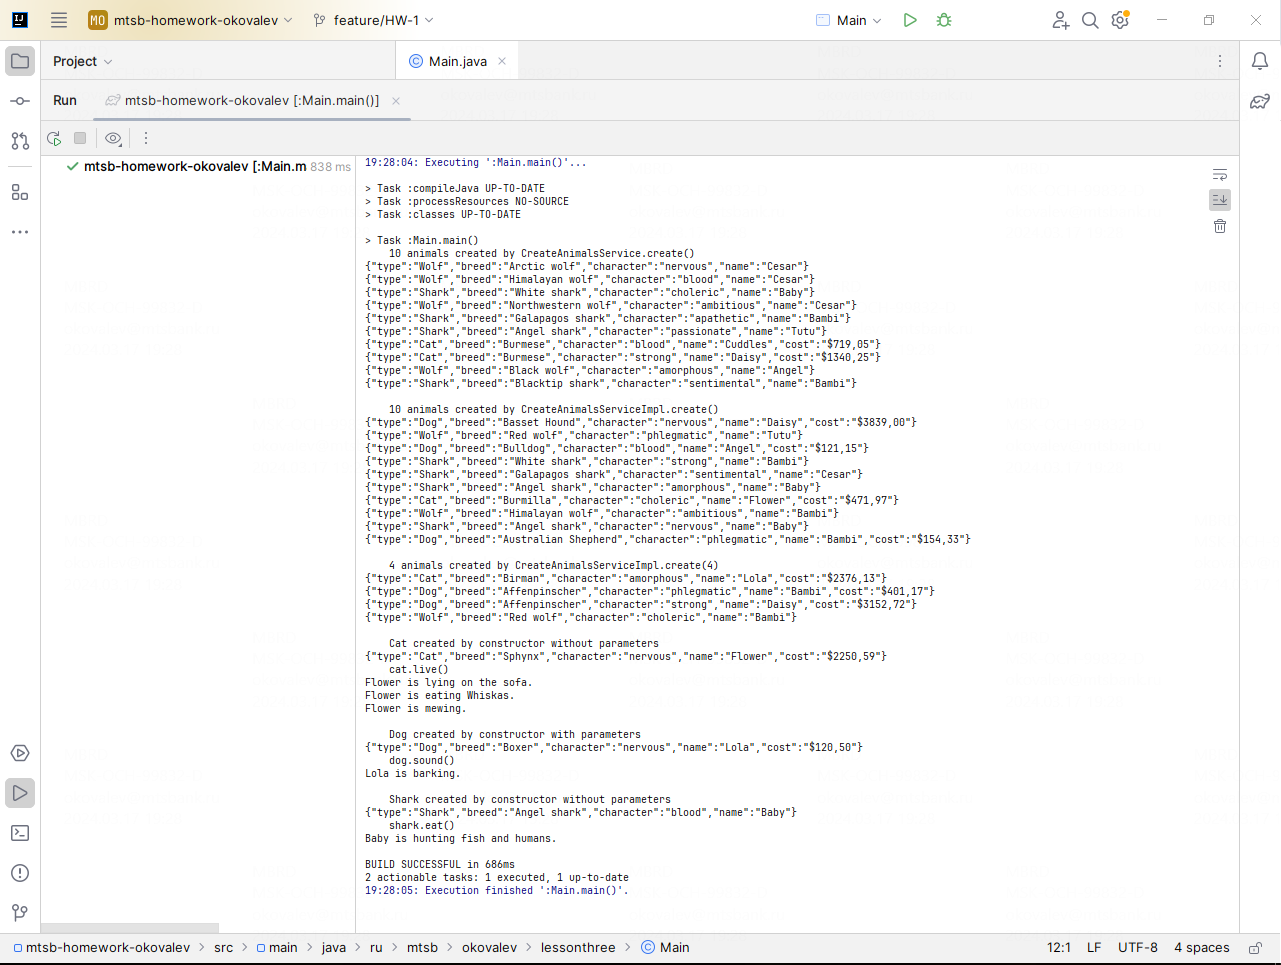
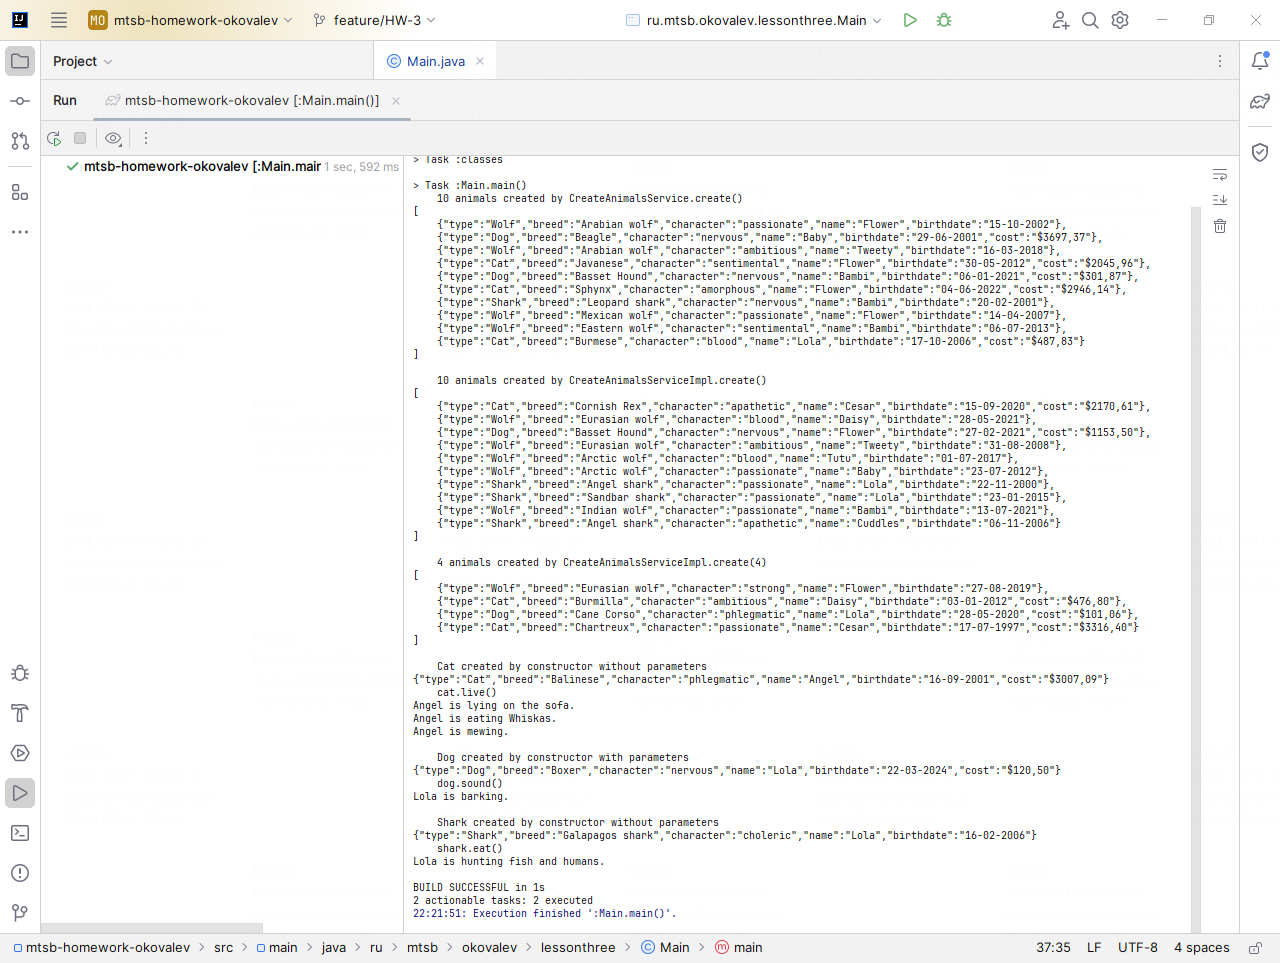
HW-3 Fix error in Predator.toString() + code refactoring

diff --git a/src/main/java/ru/mtsb/okovalev/lessonthree/Main.java b/src/main/java/ru/mtsb/okovalev/lessonthree/Main.java
@@ -10,27 +10,32 @@ import ru.mtsb.okovalev.lessonthree.animals.enums.DogBreed;
 
 import java.time.LocalDate;
 import java.util.ArrayList;
+import java.util.List;
+import java.util.Map;
 
 public class Main {
     @SuppressWarnings("all")
     public static void main(String[] args) {
-        ArrayList<Animal> byCreateAnimalsServiceCreate = new CreateAnimalsService() {
-        }.create();
-        for (int i = 0; i < byCreateAnimalsServiceCreate.size(); i++) {
-            System.out.println(byCreateAnimalsServiceCreate.get(i));
-        }
-        System.out.println();
-
         CreateAnimalsServiceImpl createAnimalsServiceImpl = new CreateAnimalsServiceImpl();
-        ArrayList<Animal> byCreateAnimalsServiceImplCreate = createAnimalsServiceImpl.create();
-        for (Animal animal : byCreateAnimalsServiceImplCreate) {
-            System.out.println(animal);
-        }
-        System.out.println();
+        ArrayList<Animal> byCreateAnimalsServiceCreate = new CreateAnimalsService() {
+            @Override
+            public Map<String, List<Animal>> createMap() {
+                return null;
+            }
+        }.create();
+        System.out.println("\t" + CreateAnimalsService.DEFAULT_ANIMALS_COUNT +
+                " animals created by CreateAnimalsService.create()");
+        System.out.println(createAnimalsServiceImpl.asJson(byCreateAnimalsServiceCreate) + "\n");
 
-        ArrayList<Animal> byCreateAnimalsServiceImplCreateN = createAnimalsServiceImpl.create(4);
-        byCreateAnimalsServiceImplCreateN.forEach(System.out::println);
-        System.out.println();
+        ArrayList<Animal> byCreateAnimalsServiceImplCreate = createAnimalsServiceImpl.create();
+        System.out.println("\t" + CreateAnimalsService.DEFAULT_ANIMALS_COUNT +
+                " animals created by CreateAnimalsServiceImpl.create()");
+        System.out.println(createAnimalsServiceImpl.asJson(byCreateAnimalsServiceImplCreate) + "\n");
+
+        int n = 4;
+        ArrayList<Animal> byCreateAnimalsServiceImplCreateN = createAnimalsServiceImpl.create(n);
+        System.out.println("\t" + n + " animals created by CreateAnimalsServiceImpl.create(" + n + ")");
+        System.out.println(createAnimalsServiceImpl.asJson(byCreateAnimalsServiceImplCreateN) + "\n");
 
         System.out.println("\tCat created by constructor without parameters");
         Animal cat = new Cat();

diff --git a/src/main/java/ru/mtsb/okovalev/lessonthree/animals/Predator.java b/src/main/java/ru/mtsb/okovalev/lessonthree/animals/Predator.java
@@ -122,7 +122,7 @@ public abstract class Predator extends AbstractAnimal {
                 + "\"breed\":" + (this.breed == null ? "null," : "\"" + getBreed() + "\",")
                 + "\"character\":" + (this.character == null ? "null," : "\"" + getCharacter() + "\",")
                 + "\"name\":" + (this.name == null ? "null," : "\"" + getName() + "\",")
-                + "\"birthdate\":" + (this.birthdate == null ? "null," : "\"" + getBirthdateFormatted() + "\",")
+                + "\"birthdate\":" + (this.birthdate == null ? "null," : "\"" + getBirthdateFormatted() + "\"")
                 + "}";
     }
 }
